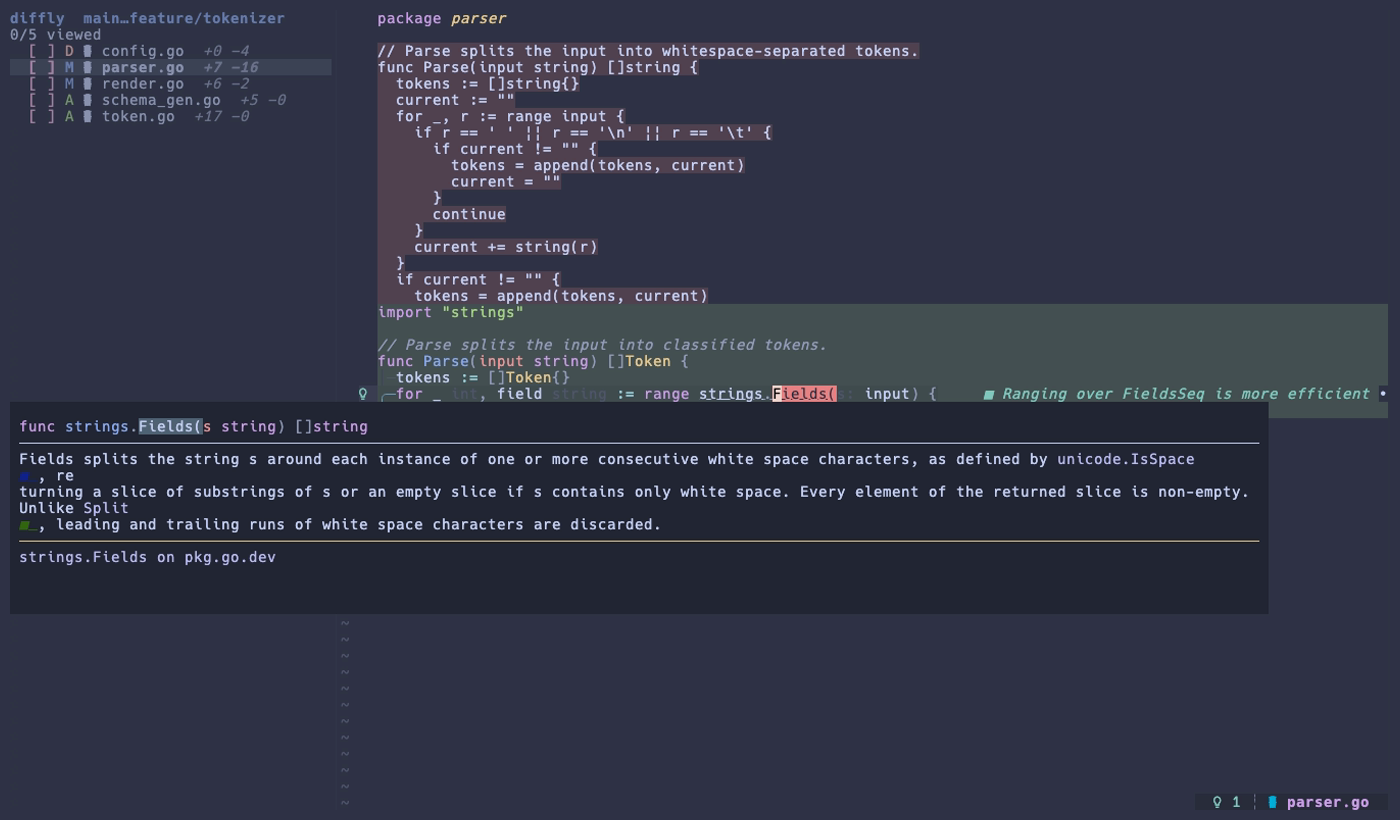
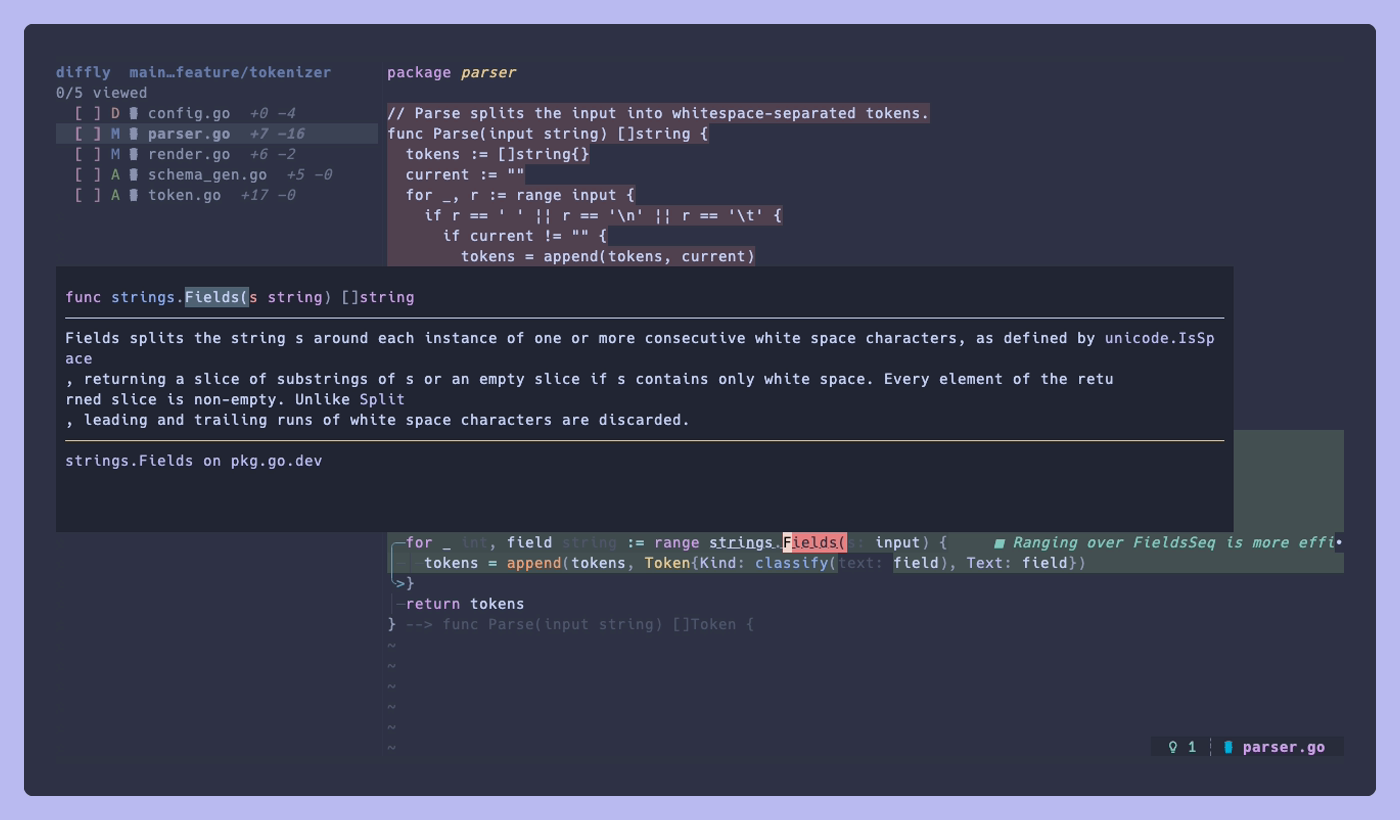
docs(demo): restyle recordings, narrate scenes, split sweep into its own gif (#7)
## Why

The README demo tried to cover everything in one gif, so the sweep
feature flashed by at the end with no context, and — since vhs doesn't
display keypresses — viewers couldn't tell which keys drove each scene.
The recording style (tight padding, no margin) also predated the current
visual polish pass.

## What

- **Narration on the gif**: each scene opens by typing an Ex comment (`"
...`) into the cmdline, holding ~2s, then cancelling with `Escape`.
Never executed, and the `"` prefix means even an accidental `Enter` is a
no-op. Rendered centered by this machine's noice cmdline popup.
- **Sweep gets its own recording** (`scripts/demo_sweep.tape` →
`assets/demo_sweep.gif`), embedded in the README's *Bulk viewed marking*
section. Its repo adds two extra `*_gen.go` files on top of
`demo_repo.sh` so one `:Diffly sweep generated` marks a 3-file batch,
then a second sweep shows the tri-state un-mark. The sweep segment is
removed from the main gif, whose alt text no longer mentions it.
- **Style**: Padding 32, LineHeight 1.3, Margin 24 with lavender fill,
BorderRadius 10, applied to both tapes; both gifs and `screenshot.png`
regenerated.
- `make demo` now records both tapes (and `demo` joins `.PHONY`).

## Notes for reviewers

- No Lua changes — tape scripts, Makefile, README, and regenerated
assets only.
- The tapes still record this machine's real Neovim config (leader =
`<Space>`, noice centered cmdline); the narration placement depends on
[…]

diff --git a/README.md b/README.md
@@ -5,7 +5,7 @@ Inspired by [difit](https://github.com/yoshiko-pg/difit).
 A file-tree diff viewer for Neovim (like diffview.nvim) with per-file **viewed** marks
 that persist across viewer sessions for the same pull request.
 
-![diffly.nvim demo — reviewing a Go branch: unified inline-overlay diff with a live gopls hover card, marking files viewed with auto-advance, and sweeping generated files](assets/demo.gif)
+![diffly.nvim demo — reviewing a Go branch: unified inline-overlay diff with a live gopls hover card and marking files viewed with auto-advance](assets/demo.gif)
 
 ## Features
 
@@ -255,6 +255,8 @@ effect of scrolling, opening, or refreshing a diff. `S` (panel) / `:Diffly sweep
 `V` (panel) are just two more explicit triggers, for when you want to mark (or unmark)
 several files at once instead of one `v` press per file — e.g. lockfiles and generated
 output you never intend to read line-by-line.
+
+![diffly.nvim sweep demo — one :Diffly sweep marks every file of the "generated" pattern group as viewed at once, and sweeping the fully-viewed group again un-marks the whole batch](assets/demo_sweep.gif)
 
 **`viewed_patterns`** — an ordered list of pattern **groups**, matched against every file in
 the current diff. Each item is either: